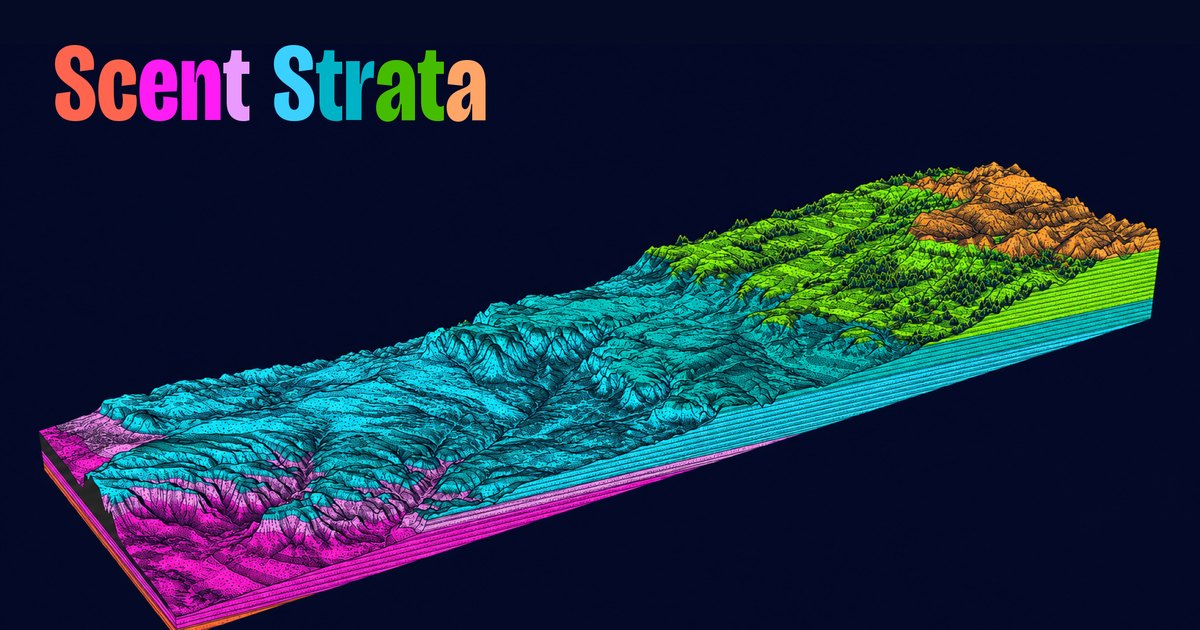
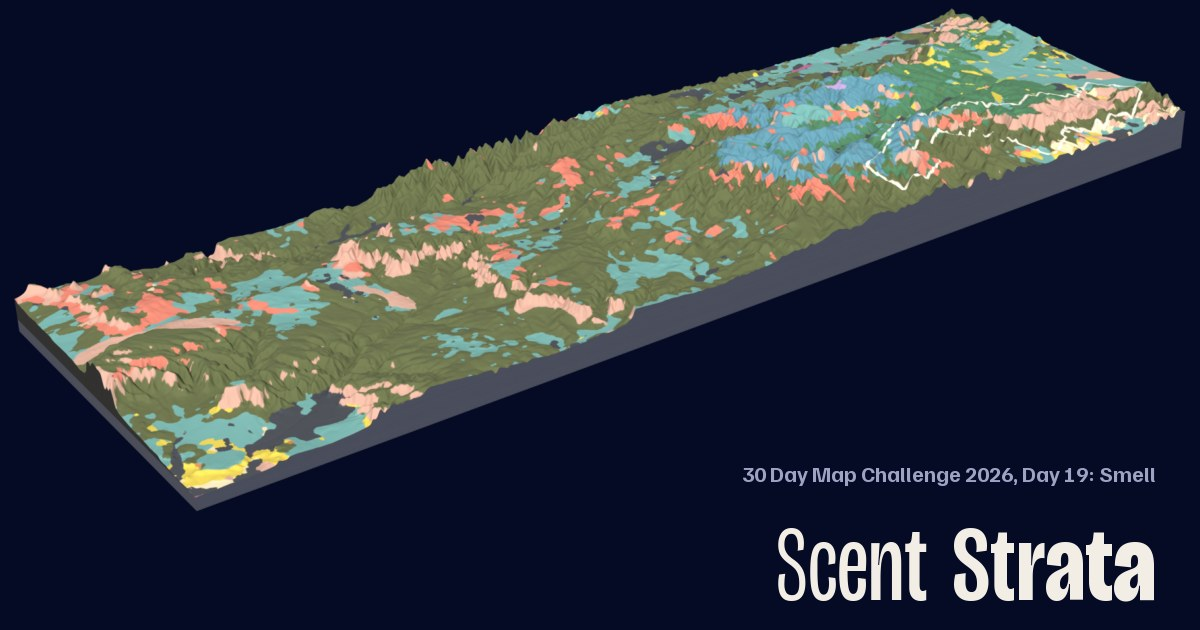
Replace the Day 19 poster with the plant-colored design
The poster now uses color for one thing: the plant community.
Each of the 12 communities has a bar for the middle 80 percent of
its land, with its name and a dot at the mean. The plant plates are
larger. The 3D block runs from northern Arizona through all of Bryce
Canyon National Park and is colored by LANDFIRE plant community.
Blender renders the block directly, so Codex drew only the plates.

The article removes the rock-age model and its code excerpt. It adds
the Flora of North America source for limber pine, the search for a
maple and oak smell, the color method and the new block extent. The
share card shows the new block and title.

diff --git a/notes/grand-staircase-scent-strata/index.html b/notes/grand-staircase-scent-strata/index.html
@@ -3,7 +3,7 @@
   <head>
     <meta charset="utf-8">
     <meta name="viewport" content="width=device-width, initial-scale=1">
-    <meta name="description" content="Twelve plant communities of Utah's five national parks at their mean elevation, each with its published smell, under a 3D block of the Grand Staircase colored by the age of its rock.">
+    <meta name="description" content="Twelve plant communities of Utah's five national parks on one elevation scale, each with its published smell, under a 3D block of the Grand Staircase colored by plant community.">
     <meta name="theme-color" content="#ffffff">
     <title>Scent Strata | Brian Busch, GISP</title>
     <link rel="icon" href="/favicon.svg" type="image/svg+xml">
@@ -15,9 +15,9 @@
     <meta property="og:site_name" content="Brian Busch">
     <meta property="og:url" content="https://buschbrian.github.io/notes/grand-staircase-scent-strata/">
     <meta property="og:title" content="Scent Strata | Brian Busch, GISP">
-    <meta property="og:description" content="Twelve plant communities of Utah's five national parks at their mean elevation, each with its published smell, under a 3D block of the Grand Staircase colored by the age of its rock.">
+    <meta property="og:description" content="Twelve plant communities of Utah's five national parks on one elevation scale, each with its published smell, under a 3D block of the Grand Staircase colored by plant community.">
     <meta property="og:image" content="https://buschbrian.github.io/assets/images/grand-staircase-scent-strata-card.jpg">
-    <meta property="og:image:alt" content="The title Scent Strata above a 3D block of the Grand Staircase in southern Utah, drawn in a hatched print style. The rock is colored by age: magenta at the low south end, cyan across the middle, green and orange at the high north end, with dark tree marks on the upper slopes.">
+    <meta property="og:image:alt" content="A 3D block of the Grand Staircase in southern Utah on a dark navy background, colored by plant community: olive pinyon and juniper over most of it, teal sagebrush, coral maple and oak, and green and blue forest on the high plateau, where Bryce Canyon National Park is outlined in white. The title Scent Strata is at the lower right.">
     <meta property="og:image:width" content="1200">
     <meta property="og:image:height" content="630">
     <meta property="article:author" content="Brian Busch">
@@ -31,7 +31,7 @@
   "@context": "https://schema.org",
   "@type": "Article",
   "headline": "Scent Strata",
-  "description": "Twelve plant communities of Utah's five national parks at their mean elevation, each with its published smell, under a 3D block of the Grand Staircase colored by the age of its rock.",
+  "description": "Twelve plant communities of Utah's five national parks on one elevation scale, each with its published smell, under a 3D block of the Grand Staircase colored by plant community.",
   "image": "https://buschbrian.github.io/assets/images/grand-staircase-scent-strata.jpg",
   "datePublished": "2026-11-19",
   "dateModified": "2026-11-19",
@@ -66,29 +66,30 @@
         <header class="post-header">
           <p class="eyebrow">30 Day Map Challenge 2026 | Day 19: Smell</p>
           <h1>Scent Strata</h1>
-          <p class="post-deck">Twelve plant communities of Utah's five national parks, each at its mean elevation, with the smell that a published source gives for it. Above them is the Grand Staircase in 3D, colored by the age of its rock.</p>
+          <p class="post-deck">Twelve plant communities of Utah's five national parks on one elevation scale, each with the smell that a published source gives for it. Above them is the Grand Staircase in 3D, colored by plant community.</p>
           <div class="post-meta-grid">
             <div><span>Challenge</span><strong>Day 19: Smell</strong></div>
-            <div><span>Subject</span><strong>Arches, Canyonlands, Capitol Reef, Zion and Bryce Canyon, and the Grand Staircase from Kanab to Rainbow Point</strong></div>
-            <div><span>Made with</span><strong>Blender 5.2 (Cycles), Codex image generation, Python (NumPy, pandas, Matplotlib)</strong></div>
+            <div><span>Subject</span><strong>Arches, Canyonlands, Capitol Reef, Zion and Bryce Canyon, and the Grand Staircase from Kanab through Bryce Canyon</strong></div>
+            <div><span>Made with</span><strong>Blender 5.2 (Cycles), Codex image generation (plant plates), Python (NumPy, pandas, Matplotlib)</strong></div>
             <div><span>Challenge date</span><strong><time datetime="2026-11-19">November 19, 2026</time></strong></div>
           </div>
         </header>
         <figure class="post-hero-image">
-          <picture><source type="image/webp" srcset="/assets/images/r/grand-staircase-scent-strata-480.webp 480w, /assets/images/r/grand-staircase-scent-strata-960.webp 960w, /assets/images/r/grand-staircase-scent-strata-1440.webp 1440w, /assets/images/r/grand-staircase-scent-strata-2160.webp 2160w" sizes="(max-width: 720px) 90vw, 720px"><img src="/assets/images/grand-staircase-scent-strata.jpg" alt="Poster titled Scent Strata on a dark navy background. At the top, a 3D block of the Grand Staircase in southern Utah, from south of Kanab to Rainbow Point in Bryce Canyon, drawn in a hatched print style. The rock is colored by age: magenta and lilac at the low south end, cyan across the middle, green and orange at the high north end, with dark tree marks on the upper slopes. Below it, an elevation scale runs from 4,000 to 9,000 feet. Five white bars show the middle 80 percent of the land in Arches, Canyonlands, Capitol Reef, Zion and Bryce Canyon. Twelve plant communities with drawn plates climb the scale, each with its smell. From the bottom: tamarisk, fragrant flowers, 4,640 ft; blackbrush, aromatic leaves, 4,830 ft; shadscale and sand sage, fishy, pungent, 5,200 ft; rabbitbrush, pineapple or rubber, 5,560 ft; Fremont cottonwood, fragrant buds, 5,660 ft; bare rock, rain-soaked dirt, 5,700 ft; pinyon and juniper, aromatic pinyon, 5,940 ft; sagebrush, spicy, bitter, 6,130 ft; bigtooth maple and Gambel oak, with no smell, 6,450 ft; ponderosa pine, vanilla bark, 7,090 ft; Douglas-fir and white fir, citrus needles, 7,680 ft; bristlecone and limber pine, with no smell, 8,480 ft. A key at the right lists the rock groups by age, from Kaibab (Permian) to Pink Cliffs (Paleogene)." width="2160" height="2700"></picture>
+          <picture><source type="image/webp" srcset="/assets/images/r/grand-staircase-scent-strata-480.webp 480w, /assets/images/r/grand-staircase-scent-strata-960.webp 960w, /assets/images/r/grand-staircase-scent-strata-1440.webp 1440w, /assets/images/r/grand-staircase-scent-strata-2160.webp 2160w" sizes="(max-width: 720px) 90vw, 720px"><img src="/assets/images/grand-staircase-scent-strata.jpg" alt="Poster titled Scent Strata on a dark navy background. At the top, a 3D block of the Grand Staircase in southern Utah runs from northern Arizona, south of Kanab, north through Bryce Canyon National Park, which is outlined in white. The block is colored by plant community: olive pinyon and juniper over most of it, teal sagebrush, coral maple and oak, and green ponderosa pine and blue fir on the high plateau near Bryce. Labels mark Coral Pink Sand Dunes, Kanab, Mount Carmel Junction, Alton and Rainbow Point, 33 miles from Kanab, with a north arrow. Below, an elevation scale runs from 4,000 to 9,000 feet. Five bars show the middle 80 percent of the land in Arches, Canyonlands, Capitol Reef, Zion and Bryce Canyon. Each park bar is colored by the community that covers the most land at each elevation. Twelve named bars show the same range for each plant community and climb from low to high, with a dot at the mean. To the right are twelve round plant plates, from high to low, each with its smell and range: bristlecone and limber pine, cut limber pine: turpentine, 7,900 to 8,900 ft; Douglas-fir and white fir, citrus needles, 6,300 to 8,800 ft; ponderosa pine, vanilla bark, 5,800 to 8,300 ft; bigtooth maple and Gambel oak, no published smell, 5,200 to 7,700 ft; sagebrush, spicy, bitter, 4,900 to 7,100 ft; pinyon and juniper, aromatic pinyon, 4,900 to 7,200 ft; bare rock, rain-soaked dirt, 4,500 to 6,800 ft; Fremont cottonwood, fragrant buds, 4,100 to 7,400 ft; rabbitbrush, pineapple or rubber, 4,300 to 6,700 ft; shadscale and sand sage, fishy, pungent, 4,100 to 6,300 ft; blackbrush, aromatic leaves, 4,300 to 5,300 ft; tamarisk, fragrant flowers, 3,900 to 5,900 ft." width="2160" height="2700"></picture>
           <figcaption>Scent Strata. <a href="/assets/images/grand-staircase-scent-strata.jpg">Open the poster</a>.</figcaption>
         </figure>
         <div class="post-content">
           <h2>The smell changes as you climb</h2>
           <p>The plants in Utah's national parks change with elevation. The smell of the air changes with them.</p>
-          <p>The poster puts 12 plant communities on one elevation scale. A plant community is a group of plants that grow together, such as pinyon and juniper woodland. Each community sits at its mean elevation across the five parks.</p>
+          <p>The poster puts 12 plant communities on one elevation scale. A plant community is a group of plants that grow together, such as pinyon and juniper woodland. Each bar covers the middle 80 percent of the community's land in the five parks. The dot on the bar is the mean elevation.</p>
           <ul>
-            <li>Tamarisk grows lowest, along the rivers, at a mean of 4,640 ft (1,414 m). Its flowers are fragrant.</li>
-            <li>Ponderosa pine is at 7,090 ft (2,161 m). Its bark smells of vanilla.</li>
-            <li>Douglas-fir and white fir are at 7,680 ft (2,341 m). Their needles smell of citrus when you break them.</li>
-            <li>Bristlecone and limber pine are highest, at 8,480 ft (2,585 m).</li>
+            <li>Tamarisk grows lowest, along the rivers, from 3,900 to 5,900 ft (1,189 to 1,798 m). Its flowers are fragrant.</li>
+            <li>Ponderosa pine grows from 5,800 to 8,300 ft (1,768 to 2,530 m). Its bark smells of vanilla.</li>
+            <li>Douglas-fir and white fir grow from 6,300 to 8,800 ft (1,920 to 2,682 m). Their needles smell of citrus when you break them.</li>
+            <li>Bristlecone and limber pine grow highest, from 7,900 to 8,900 ft (2,408 to 2,713 m).</li>
           </ul>
-          <p>Five white bars show where the land of each park is. Each bar covers the middle 80 percent of the park's area by elevation:</p>
+          <p>The ranges overlap. Most communities grow across thousands of feet, so one elevation can have several smells.</p>
+          <p>Five more bars show where the land of each park is. Each bar covers the middle 80 percent of the park's area by elevation. Its colors show the community that covers the most land at each elevation:</p>
           <ul>
             <li>Arches: 4,300 to 5,200 ft</li>
             <li>Canyonlands: 4,200 to 5,900 ft</li>
@@ -111,84 +112,82 @@
             <li>Ponderosa pine, vanilla bark: <a href="https://www.nps.gov/brca/learn/nature/ponderosapine.htm">NPS, Bryce Canyon National Park</a>.</li>
             <li>Douglas-fir, citrus needles: <a href="https://www.nps.gov/brca/learn/nature/douglasfir.htm">NPS, Bryce Canyon National Park</a>.</li>
             <li>White fir, citrus needles: <a href="https://plants.sc.egov.usda.gov/DocumentLibrary/plantguide/pdf/pg_abco.pdf">USDA NRCS plant guide</a>.</li>
+            <li>Limber pine, turpentine: <a href="https://floranorthamerica.org/Pinus_flexilis">Flora of North America, volume 2</a>. The source says that the fresh-cut wood has the odor of turpentine.</li>
           </ul>
-          <p>Two communities have no smell word. For bristlecone and limber pine, the only source that I found was a chemistry study of the gases that the trees release. It does not describe a smell that a person notices. For bigtooth maple and Gambel oak, I found no source.</p>
+          <p>The bristlecone and limber pine community has the words "cut limber pine: turpentine". The source describes limber pine wood after a cut, not the living trees. I found no description of the smell of Great Basin bristlecone pine. The Flora of North America describes its resin, but not a smell.</p>
+          <p>For bigtooth maple and Gambel oak, the poster says "no published smell". I searched pages from the NPS, the USDA Forest Service and NRCS, university extension programs, Virginia Tech and the Flora of North America. None describes a smell for these plants.</p>
           <p>The pinyon and juniper community has the words "aromatic pinyon". The source describes pinyon. I found no reliable description of the smell of Utah juniper.</p>
           <h2>The Grand Staircase</h2>
-          <p>The Grand Staircase is a series of cliffs that step up from northern Arizona to the rim of Bryce Canyon. Each step is a younger layer of rock.</p>
-          <p>The block runs about 41 miles (66.4 km) from south of Kanab to Rainbow Point in Bryce Canyon. It is 12 miles (20 km) deep. The terrain is USGS 3DEP elevation on a 40 m grid, with a vertical exaggeration of 4 times.</p>
-          <p>The block shows the land between the parks, not the parks themselves. It holds 5 percent of Bryce Canyon National Park and no part of Zion. The scent ladder uses all five parks.</p>
-          <h2>The layers of rock</h2>
-          <p>The colors of the block show the age of the rock. A geologic map shows the rock at the surface only. The colors inside the block come from a simple model.</p>
-          <ol>
-            <li>A script samples the mapped rock every 240 m (790 ft) along the front edge of the block. There are 287 samples. The map units come from Macrostrat. Most come from the Utah Geological Survey map of the Kanab 30' x 60' quadrangle.</li>
-            <li>Each map unit goes into one of seven groups by its formation name. The groups are Kaibab, the Chocolate, Vermilion and White Cliffs, the Carmel slopes, and the Gray and Pink Cliffs.</li>
-            <li>Each contact between two groups is a flat surface. It goes through the mapped change along the front edge and dips north at 72 ft per kilometer.</li>
-            <li>The top of the Kaibab is not on the map along this line. The model puts it 1,700 ft below the top of the Chocolate Cliffs group.</li>
-          </ol>
-          <p>This "layer cake" puts 168 of 202 mapped samples on the front edge in the correct group. That is 83 percent. On the top of the block, 50 of 61 mapped samples agree, or 82 percent. Most errors are where layers interfinger, such as the thin tongues of Navajo Sandstone.</p>
+          <p>The Grand Staircase is a series of cliffs that step up from northern Arizona to the rim of Bryce Canyon.</p>
+          <p>The block runs 59 miles (96 km) north from northern Arizona, 7.5 miles (12 km) south of Kanab. It ends at the north end of Bryce Canyon National Park. It is 19 miles (30 km) deep. The terrain is USGS 3DEP elevation on a 40 m grid, with a vertical exaggeration of 4 times.</p>
+          <p>The front edge of the block is 2.7 miles (4.4 km) east of a straight line from Kanab to Rainbow Point. This puts all of Bryce Canyon National Park on the block. The white line is the park boundary. The block holds no part of Zion. The scent ladder uses all five parks.</p>
+          <h2>The colors</h2>
+          <p>Color shows one thing on the poster: the plant community. Each community has its own color, and the color comes from the plant. Rabbitbrush flowers are gold, maple leaves are red, and the firs are blue.</p>
+          <p>I tested the colors with simulations of the three common types of color blindness. Some pairs of colors are close. So each bar also has the name of its community or park, and each plate has its name.</p>
+          <p>On the block, each 40 m cell shows the most common community in the 600 m (about 2,000 ft) square around it. This removes small patches that would look like noise at this scale.</p>
           <h2>What Codex did</h2>
-          <p>Blender rendered the block with the model colors. Then Codex image generation, a tool from OpenAI, redrew the render in a screen-print style. It added hatching, stipple, lines of bedding and tree marks. Codex reported that it changed some terrain details and colors a little. So the block on the poster is an illustration of the data, not an exact map.</p>
-          <p>Codex also drew the 12 plant plates. No image from Codex has text in it. Python sets every word, number and the elevation scale.</p>
+          <p>Codex image generation, a tool from OpenAI, drew the 12 plant plates. No image from Codex has text in it. Python sets every word, number and the elevation scale. Blender rendered the block directly from the data, with no change by Codex.</p>
           <h2>Inside the scripts</h2>
-          <p>Python scripts prepare the data and make the poster. <code>day19_utah5_elev.py</code> pairs land cover and elevation for each park. <code>day19_geo_drape.py</code> builds the layer cake. <code>day19_blender_block.py</code> renders the block. <code>day19_strata_final.py</code> makes the poster.</p>
-          <p>The excerpts below pass the default checks of the ruff linter and use its code format. The excerpts are trimmed. A <code># ...</code> line marks a cut.</p>
-          <p>This part gives the mean elevation of each community and the middle 80 percent of each park. The land is counted in 100 ft bands.</p>
+          <p>Python scripts prepare the data and make the poster.</p>
+          <ul>
+            <li><code>day19_utah5_elev.py</code> pairs land cover and elevation for each park.</li>
+            <li><code>day19_block_fetch.py</code> gets the terrain and land cover for the block.</li>
+            <li><code>day19_scent_drape.py</code> colors the top of the block by community.</li>
+            <li><code>day19_blender_block.py</code> renders the block.</li>
+            <li><code>day19_strata_v10.py</code> makes the poster.</li>
+          </ul>
+          <p>The excerpts below pass the default checks of the ruff linter and use its code format.</p>
+          <p>This part gives the middle 80 percent and the mean elevation of each community. The land is counted in 100 ft bands.</p>
           <figure class="code-excerpt">
-            <pre tabindex="0"><code>prof = pd.read_csv(data / "utah5/park-band-profiles.csv")
+            <pre tabindex="0"><code>def mid80(p):
+    p = p.groupby("band").acres.sum().sort_index()
+    c = p.cumsum() / p.sum()
+    return p.index[(c &gt;= 0.10).argmax()], p.index[(c &gt;= 0.90).argmax()] + 100
+
+
 mean_ft = (
     prof.assign(w=prof.acres * (prof.band + 50)).groupby("key").w.sum()
     / prof.groupby("key").acres.sum()
 ).to_dict()
-# ...
-for i, (code, name) in enumerate(PARKS):
-    p = prof[prof.park == code].groupby("band").acres.sum().sort_index()
-    c = p.cumsum() / p.sum()
-    lo, hi = p.index[(c &gt;= 0.10).argmax()], p.index[(c &gt;= 0.90).argmax()] + 100</code></pre>
-            <figcaption>From <code>day19_strata_final.py</code>. The band value is the bottom of the band, so the mean uses its middle.</figcaption>
+RANGE = {k: mid80(g) for k, g in prof.groupby("key")}</code></pre>
+            <figcaption>From <code>day19_strata_v10.py</code>. The band value is the bottom of the band, so the mean uses its middle.</figcaption>
           </figure>
-          <p>This part finds the contacts and tests the layer cake against the map.</p>
+          <p>This part colors the top of the block. Each LANDFIRE type goes into its community. Then each cell takes the most common community around it.</p>
           <figure class="code-excerpt">
-            <pre tabindex="0"><code>obs = [(u["km"], u["ft"], group(u["name"])) for u in units if u["km"] &lt;= km_col[-1]]
-DIP = -72.0
-contacts = {}
-for k in range(2, 7):
-    for (k0, f0, g0), (k1, f1, g1) in pairwise(obs):
-        if g0 is not None and g1 is not None and g0 &lt; k &lt;= g1:
-            contacts[k] = ((k0 + k1) / 2, (f0 + f1) / 2)
-            break
-line = {
-    k: (lambda x, k=k: contacts[k][1] + DIP * (x - contacts[k][0])) for k in contacts
+            <pre tabindex="0"><code>order = list(PALETTE)
+keymap = {
+    int(v): order.index(GROUP_TO_KEY.get(names.get(int(v), ""), "other"))
+    for v in np.unique(evt)
 }
-line[1] = lambda x: line[2](x) - 1700  # Kaibab top, unmapped on this line
-pred = lambda x, ft: sum(ft &gt;= line[k](x) for k in sorted(line))
-hits = [pred(k, f) == g for k, f, g in obs if g is not None]</code></pre>
-            <figcaption>From <code>day19_geo_drape.py</code>. A contact goes halfway between two samples where the group changes.</figcaption>
+kid = np.vectorize(keymap.get)(evt)
+votes = np.stack(
+    [uniform_filter((kid == i).astype(np.float32), size=15) for i in range(len(order))]
+)
+kid = votes.argmax(0)  # most common community in the 600 m square around each cell</code></pre>
+            <figcaption>From <code>day19_scent_drape.py</code>. A window of 15 cells at 40 m is 600 m wide.</figcaption>
           </figure>
           <h2>Method</h2>
           <ul>
             <li>Land cover is the LANDFIRE 2025 Existing Vegetation Type. Elevation is USGS 3DEP. Both are on one 30 m grid for each park, in an equal-area projection (EPSG:5070).</li>
             <li>The vegetation types go into 12 communities. A community name such as "shadscale and sand sage" gives the main plants of the group.</li>
-            <li>The mean elevation of a community uses all of its land in the five parks.</li>
-            <li>The block uses 3DEP terrain and LANDFIRE 2025 on a 40 m grid along a line from Kanab to Rainbow Point. Blender's Cycles renderer makes the image.</li>
+            <li>The range and the mean elevation of a community use all of its land in the five parks.</li>
+            <li>The block uses 3DEP terrain and LANDFIRE 2025 on a 40 m grid. Blender's Cycles renderer makes the image.</li>
             <li>The poster is 2160 by 2700 pixels. The page shows the same image.</li>
           </ul>
           <h2>Limits</h2>
           <ul>
             <li>A smell word describes the main plant of a community. Other plants grow there too. Rabbitbrush stands for a shrub and grass community where rabbitbrush is common. The sagebrush source describes big sagebrush, but low sagebrush also grows in that community.</li>
-            <li>The smell of pinyon and juniper woodland comes from the pinyon source only.</li>
+            <li>The smell of pinyon and juniper woodland comes from the pinyon source only. The turpentine smell is for cut limber pine wood only.</li>
             <li>LANDFIRE maps vegetation from satellite images and models. Some small areas have the wrong type.</li>
-            <li>The layer cake is a simple model. Real contacts bend, and some layers thin out.</li>
-            <li>Codex redrew the block. The colors and forest marks follow the data, but small terrain details can differ.</li>
-            <li>A mean elevation is not a range. Most communities grow across thousands of feet.</li>
+            <li>A bar shows the middle 80 percent of a community's land. Some of each community grows above or below its bar.</li>
+            <li>The colors on the block show the most common community in each 600 m square. Small stands of other communities do not show.</li>
           </ul>
           <h2>Data and credit</h2>
-          <p>The U.S. Geological Survey 3D Elevation Program provides the terrain. LANDFIRE, a program of the USDA Forest Service and the U.S. Department of the Interior, provides the vegetation types. Macrostrat serves the geologic map units. They come from the Utah Geological Survey map of the Kanab 30' x 60' quadrangle (Doelling, 2008) and the NPS Geologic Resources Inventory map of Bryce Canyon National Park (2010). The smell sources are in the list above.</p>
+          <p>The U.S. Geological Survey 3D Elevation Program provides the terrain. LANDFIRE, a program of the USDA Forest Service and the U.S. Department of the Interior, provides the vegetation types. The park boundaries come from the National Park Service Land Resources Division. The smell sources are in the list above.</p>
           <ul>
             <li><a href="https://www.usgs.gov/3d-elevation-program">Read about the USGS 3D Elevation Program</a>.</li>
             <li><a href="https://landfire.gov/">Read about LANDFIRE</a>.</li>
-            <li><a href="https://macrostrat.org/">Read about Macrostrat</a>.</li>
-            <li><a href="https://geology.utah.gov/">Read about the Utah Geological Survey</a>.</li>
+            <li><a href="https://floranorthamerica.org/">Read about the Flora of North America</a>.</li>
           </ul>
           <nav class="challenge-links" aria-label="Other maps in the 2026 challenge">
             <a href="/notes/western-reservoir-storage/">Day 1: Points</a>

diff --git a/notes/index.html b/notes/index.html
@@ -218,7 +218,7 @@
         <article class="note-entry" id="grand-staircase-scent-strata">
           <p class="project-meta">30 Day Map Challenge 2026 | Day 19: Smell</p>
           <h3><a href="/notes/grand-staircase-scent-strata/">Scent Strata</a></h3>
-          <p>Twelve plant communities of Utah's five national parks at their mean elevation, each with its published smell, under a 3D block of the Grand Staircase.</p>
+          <p>Twelve plant communities of Utah's five national parks on one elevation scale, each with its published smell, under a 3D block of the Grand Staircase colored by plant community.</p>
           <p class="project-meta"><time datetime="2026-11-19">November 19, 2026</time></p>
         </article>
       </div>
